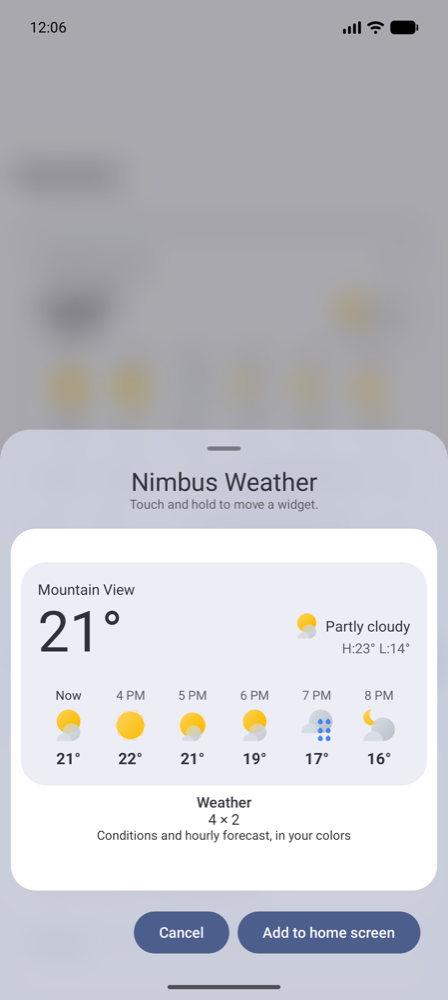
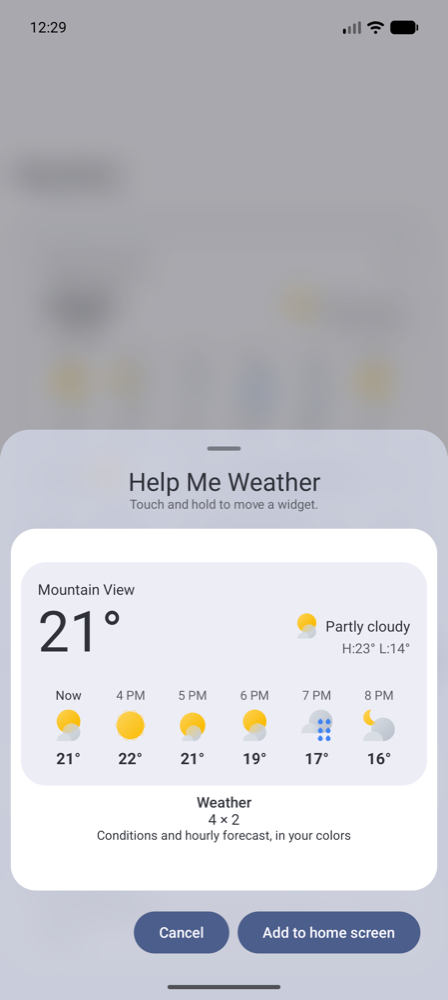
Rename to Help Me Weather

diff --git a/app/src/main/java/app/nimbus/weather/ui/MainActivity.kt b/app/src/main/java/app/nimbus/weather/ui/MainActivity.kt
@@ -91,7 +91,7 @@ class MainActivity : ComponentActivity() {
         enableEdgeToEdge()
         super.onCreate(savedInstanceState)
         lifecycleScope.launch { publishPickerPreviews(this@MainActivity) }
-        setContent { NimbusTheme { HomeScreen() } }
+        setContent { HelpMeWeatherTheme { HomeScreen() } }
     }
 }
 
@@ -210,7 +210,7 @@ private fun HomeScreen() {
 
             SettingsGroup("Widgets") {
                 if (widgets.isEmpty()) {
-                    infoRow("No widgets yet", "Touch & hold the home screen, then Widgets → Nimbus Weather")
+                    infoRow("No widgets yet", "Touch & hold the home screen, then Widgets → Help Me Weather")
                 }
                 widgets.forEachIndexed { i, (id, c) ->
                     navRow("Widget ${i + 1}", c.location?.name ?: "Current location", tag = "widget_row_$i") {

diff --git a/app/src/main/java/app/nimbus/weather/widget/Layouts.kt b/app/src/main/java/app/nimbus/weather/widget/Layouts.kt
@@ -118,7 +118,7 @@ fun WidgetLayouts(s: WidgetState, c: WColors) {
         w == null -> if (s.refreshing) Loading(c) else Message(c, R.drawable.ms_refresh, context.getString(R.string.tap_to_load))
         else -> {
             val x = Scope(context, s, c, w, Fmt(context, s.app, w.zoneId), size.width.value, size.height.value)
-            if (app.nimbus.weather.BuildConfig.DEBUG) android.util.Log.d("NimbusWidget", "layout for ${x.width}x${x.height}dp")
+            if (app.nimbus.weather.BuildConfig.DEBUG) android.util.Log.d("HelpMeWeatherWidget", "layout for ${x.width}x${x.height}dp")
             // Breakpoints by grid span. Pixel cells are ~97dp wide and ~105dp tall, so
             // 1 row < 130dp, 2 rows < 280dp, 2 columns < 270dp.
             when {

diff --git a/app/src/main/java/app/nimbus/weather/ui/ConfigActivity.kt b/app/src/main/java/app/nimbus/weather/ui/ConfigActivity.kt
@@ -88,7 +88,7 @@ class ConfigActivity : ComponentActivity() {
         setResult(RESULT_OK, Intent().putExtra(AppWidgetManager.EXTRA_APPWIDGET_ID, widgetId))
         val store = Store(this)
         setContent {
-            NimbusTheme {
+            HelpMeWeatherTheme {
                 val app by store.app.collectAsState(AppSettings())
                 var loaded by remember { mutableStateOf<WidgetConfig?>(null) }
                 LaunchedEffect(Unit) { loaded = store.widgetNow(widgetId) }

diff --git a/app/src/main/java/app/nimbus/weather/data/Http.kt b/app/src/main/java/app/nimbus/weather/data/Http.kt
@@ -20,7 +20,7 @@ object Http {
                 readTimeout = 15_000
                 setRequestProperty("Accept", "application/json")
                 setRequestProperty("Accept-Encoding", "gzip")
-                setRequestProperty("User-Agent", "NimbusWeather/1.0 (Android widget)")
+                setRequestProperty("User-Agent", "HelpMeWeather/0.1 (Android widget)")
                 headers.forEach { (k, v) -> setRequestProperty(k, v) }
             }
             try {

diff --git a/app/src/main/java/app/nimbus/weather/widget/WidgetRenderer.kt b/app/src/main/java/app/nimbus/weather/widget/WidgetRenderer.kt
@@ -21,7 +21,7 @@ import kotlinx.coroutines.sync.withLock
  * AppWidgetManager: one short render, no job, no lingering wake lock.
  */
 object WidgetRenderer {
-    private const val TAG = "NimbusRender"
+    private const val TAG = "HelpMeWeatherRender"
     private val lock = Mutex() // compose() must not run concurrently for the same id
 
     fun ids(ctx: Context): IntArray =

diff --git a/app/src/main/java/app/nimbus/weather/ui/Components.kt b/app/src/main/java/app/nimbus/weather/ui/Components.kt
@@ -87,7 +87,7 @@ private fun Typography.withFamily(f: FontFamily?): Typography {
 }
 
 @Composable
-fun NimbusTheme(content: @Composable () -> Unit) {
+fun HelpMeWeatherTheme(content: @Composable () -> Unit) {
     val ctx = LocalContext.current
     val dark = isSystemInDarkTheme()
     val scheme = if (dark) dynamicDarkColorScheme(ctx) else dynamicLightColorScheme(ctx)

diff --git a/app/src/main/java/app/nimbus/weather/data/WeatherRepository.kt b/app/src/main/java/app/nimbus/weather/data/WeatherRepository.kt
@@ -5,7 +5,7 @@ import android.util.Log
 import app.nimbus.weather.widget.WidgetRenderer
 
 object WeatherRepository {
-    private const val TAG = "NimbusRepo"
+    private const val TAG = "HelpMeWeather"
 
     /** Package + signing-cert SHA-1 headers for Google API key app restrictions. */
     @Volatile private var appHeaders: Map<String, String>? = null

diff --git a/README.md b/README.md
@@ -1,24 +1,24 @@
-# Nimbus Weather
+# Help Me Weather
 
 **The weather widget Pixel should have shipped with.**
 
-The stock Pixel weather options are a one-line At a Glance and a widget you can barely customize. iOS and One UI have had proper weather widgets for years, with the temperature up front and a clean hourly row. Nimbus brings that layout to Pixel and builds it the Pixel way: Material 3, your wallpaper colors, Google's own weather icons, and Google's forecast, so the widget agrees with Pixel Weather and At a Glance.
+The stock Pixel weather options are a one-line At a Glance and a widget you can barely customize. iOS and One UI have had proper weather widgets for years, with the temperature up front and a clean hourly row. Help Me Weather brings that layout to Pixel and builds it the Pixel way: Material 3, your wallpaper colors, Google's own weather icons, and Google's forecast, so the widget agrees with Pixel Weather and At a Glance.
 
 <p align="center">
-  <img src="docs/screenshots/hero.png" alt="Nimbus Weather 4×2 widget in light and dark mode" width="900">
+  <img src="docs/screenshots/hero.png" alt="Help Me Weather 4×2 widget in light and dark mode" width="900">
 </p>
 
 > **It's just a widget.** No notifications (the permission is removed from the manifest), no ads, no analytics, no accounts. Location is optional.
 
 ## Download
 
-**[⬇ Download Nimbus Weather 0.1.0 (APK)](https://github.com/artemulianko/help-me-weather/releases/download/v0.1.0/nimbus-weather-0.1.0.apk)** · Android 12+ · 4.3 MB · [release notes](https://github.com/artemulianko/help-me-weather/releases/tag/v0.1.0)
+**[⬇ Download Help Me Weather 0.1.0 (APK)](https://github.com/artemulianko/help-me-weather/releases/download/v0.1.0/help-me-weather-0.1.0.apk)** · Android 12+ · 4.3 MB · [release notes](https://github.com/artemulianko/help-me-weather/releases/tag/v0.1.0)
 
[2 lines of base64/hex data omitted]
 
 1. Download the APK on your phone and open it (allow "Install unknown apps" for your browser when asked).
-2. Open **Nimbus Weather** once and allow approximate location, or skip that and pick a city.
-3. Long-press the home screen → **Widgets** → **Nimbus Weather** → drag it out. Long-press the widget → **Customize** to change it.
+2. Open **Help Me Weather** once and allow approximate location, or skip that and pick a city.
+3. Long-press the home screen → **Widgets** → **Help Me Weather** → drag it out. Long-press the widget → **Customize** to change it.
 
 ## Why it fits a Pixel
 
@@ -75,7 +75,7 @@ Designed to be invisible in your battery stats. Measured on an Android 17 emulat
 How:
 
 - **WorkManager only.** Android batches refreshes with other apps' jobs, respects Doze and App Standby, waits for a network, and **skips background refreshes on low battery**. Manual refresh always works.
-- **No Glance sessions.** Jetpack Glance normally keeps a background job (and a wakelock) alive for about 45 s after every widget update. Nimbus renders straight to RemoteViews instead, so each update is a single short render.
+- **No Glance sessions.** Jetpack Glance normally keeps a background job (and a wakelock) alive for about 45 s after every widget update. Help Me Weather renders straight to RemoteViews instead, so each update is a single short render.
 - **Location without GPS.** Approximate (cell/Wi‑Fi) location only, reusing Android's cached fix when it's recent. No location listener ever stays registered.
 - **Fetches only what's shown.** One request set per location, cached and shared by every widget; nothing is downloaded while the data is still fresh.
 - **No notifications, no foreground service.** WorkManager's foreground-service path is stripped from the manifest.
@@ -95,10 +95,10 @@ Google only offers its weather data to other apps through the [Google Maps Platf
 3. Create a key in **APIs & Services → Credentials → Create credentials → API key**.
 4. **Restrict the key** (recommended), so it's useless if it ever leaks:
    - *API restrictions*: Weather API only.
-   - *Application restrictions → Android apps*: package `app.nimbus.weather`, SHA-1 `F1:85:1D:9D:C0:E3:01:FB:77:F9:81:66:11:B9:81:2D:21:59:9B:32` (the release signing certificate; Nimbus sends these on every request).
-5. In Nimbus, go to **Forecast source → Google**, paste the key, and tap **Save**.
+   - *Application restrictions → Android apps*: package `app.nimbus.weather`, SHA-1 `F1:85:1D:9D:C0:E3:01:FB:77:F9:81:66:11:B9:81:2D:21:59:9B:32` (the release signing certificate; the app sends these on every request).
+5. In Help Me Weather, go to **Forecast source → Google**, paste the key, and tap **Save**.
 
-The key is stored only on your phone. If Google is unreachable or the key is wrong, Nimbus falls back to Open-Meteo, so the widget never goes blank.
+The key is stored only on your phone. If Google is unreachable or the key is wrong, Help Me Weather falls back to Open-Meteo, so the widget never goes blank.
 
 ## Build from source
 
@@ -106,7 +106,7 @@ Requirements: JDK 21, Android SDK with platform 37, and an emulator or device ru
 
 ```bash
 ./gradlew assembleDebug                 # debug APK
-./gradlew assembleRelease               # minified release → releases/nimbus-weather-<version>.apk
+./gradlew assembleRelease               # minified release → releases/help-me-weather-<version>.apk
 ./gradlew testDebugUnitTest             # parsing and mapping unit tests
 ./gradlew connectedDebugAndroidTest     # on-device: live network, every widget size and config rendered, UI flow
 ```
